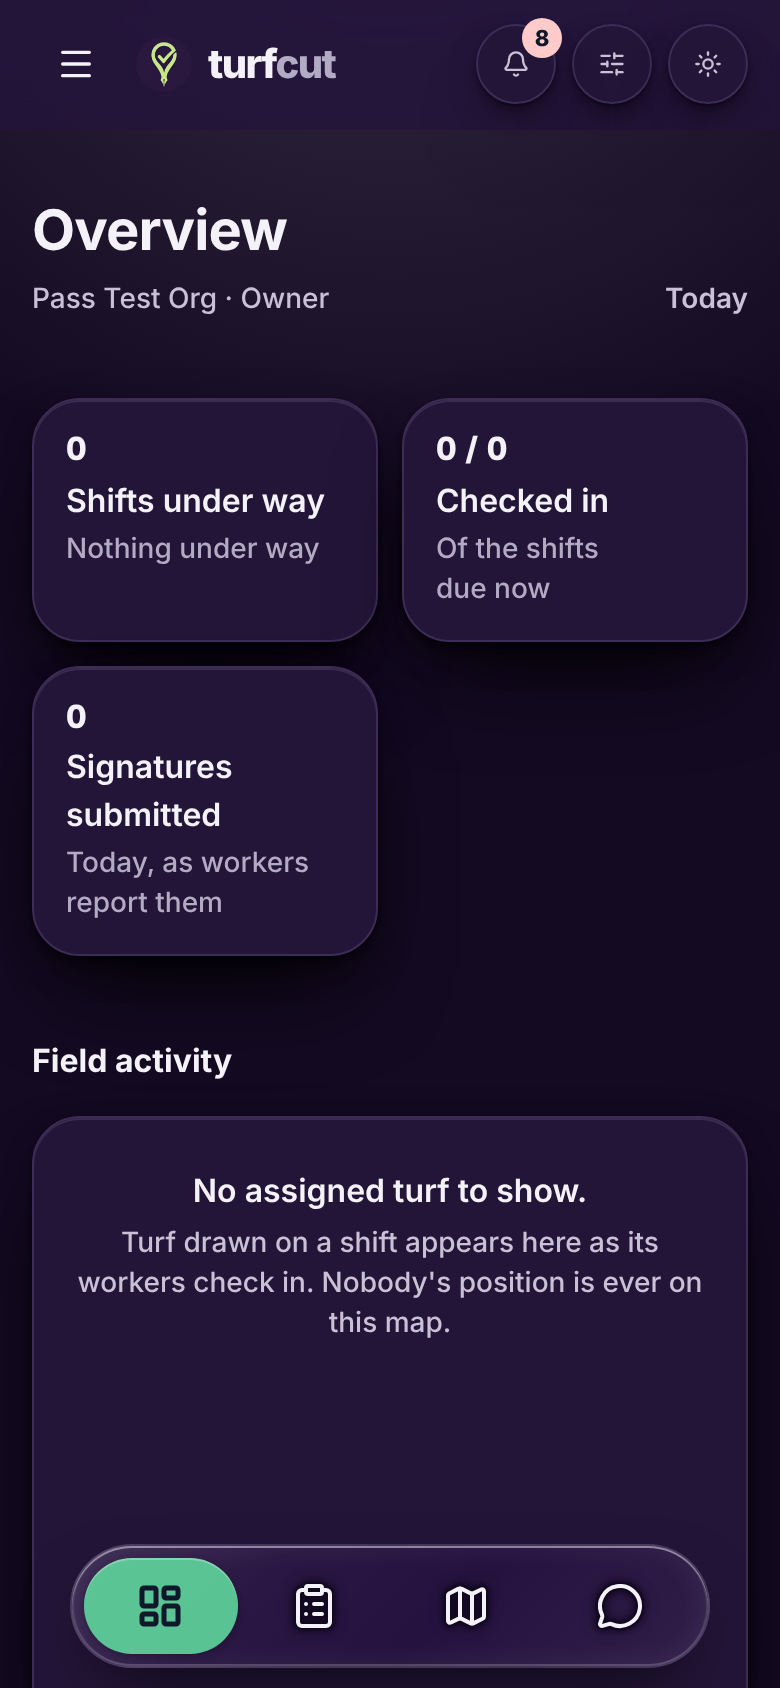
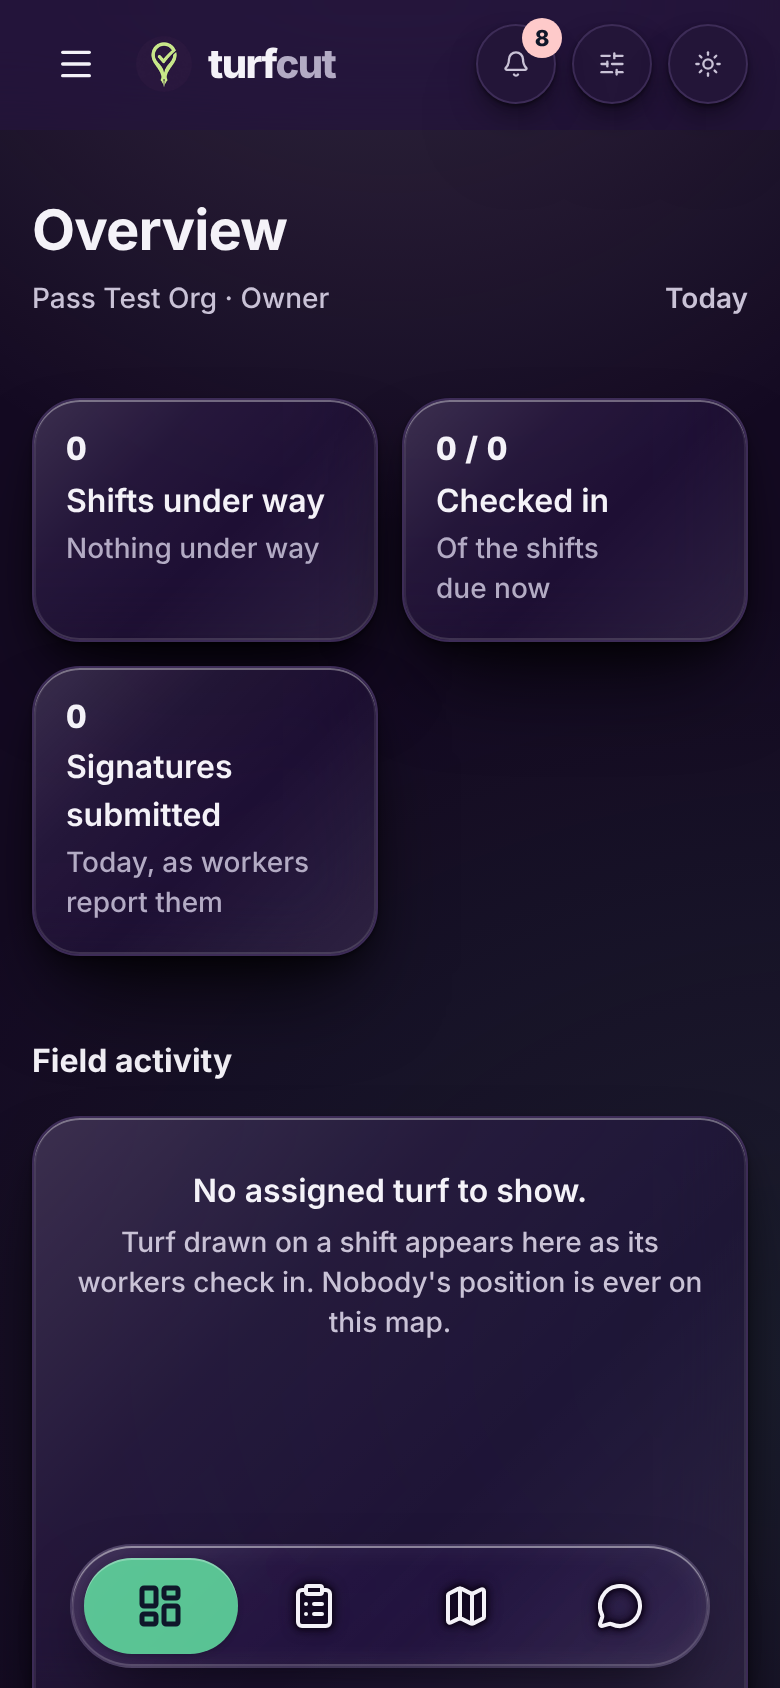
Cards are Liquid Glass, and pressed glass pools light under the finger
Every floating box is a thinner, blurred pane with the glint and bright
rim the controls have. While pressed, light pools on the pressed side
and the shadow pulls in. The page carries more of the brand's washes for
the glass to pick up. The faintest grey steps slightly darker on glass
so it stays AA; solid fallbacks are unchanged.

Claude-Session: https://claude.ai/code/session_01M5jonG7B326Ty4GJKyZ5gK

diff --git a/src/app/globals.css b/src/app/globals.css
@@ -103,6 +103,7 @@
      (derived; Subtle itself is 3.84:1 on Muted, so it stays on white and Cream). */
   --muted: #475569;
   --subtle: #64748b; /* = Subtle: captions and hints on white and Cream */
+  --subtle-on-glass: #55647a; /* derived: Subtle stepped 55% toward Muted, for the same captions on a glass card (AA over the tinted page) */
   --link: #1c0f2e; /* = Eggplant: 14:1 on every light surface (Forest is 4.3:1 on Muted) */
   --kicker: #475569;
   --focus: #157a46; /* = Forest */
@@ -161,6 +162,7 @@
   --fg: #f4f2f8;
   --muted: #c9c2d6;
   --subtle: #b3abc4;
+  --subtle-on-glass: #b3abc4;
   --solid: #5a4a78; /* a chosen chip or settled status by night: two steps up from the card (1.9:1), white type */
   --on-solid: #f4f2f8;
   --ink: #0f172a;
@@ -205,10 +207,17 @@
   --glass-border: rgb(255 255 255 / 0.2);
   --glass-highlight: inset 0 1px 0 rgb(255 255 255 / 0.34), inset 0 -1px 0 rgb(255 255 255 / 0.08), inset 0 0 0 1px rgb(255 255 255 / 0.06), 0 14px 36px -14px rgb(0 0 0 / 0.75);
   --glass-sheen: linear-gradient(135deg, rgb(255 255 255 / 0.08) 0%, rgb(255 255 255 / 0.02) 30%, rgb(255 255 255 / 0) 55%, rgb(255 255 255 / 0.05) 100%);
-  --card-bg: color-mix(in srgb, var(--surface) 82%, transparent);
-  --card-edge: inset 0 1px 0 rgb(255 255 255 / 0.1);
-  --card-sheen: linear-gradient(180deg, rgb(255 255 255 / 0.05), rgb(255 255 255 / 0) 38%);
-  --page-wash: radial-gradient(130% 34rem at 50% -8rem, color-mix(in srgb, var(--ring) 17%, transparent), transparent 72%);
+  --card-bg: color-mix(in srgb, var(--surface) 58%, transparent);
+  --card-filter: blur(20px) saturate(160%);
+  --card-edge: inset 0 1px 0 rgb(255 255 255 / 0.3), inset 0 -1px 0 rgb(255 255 255 / 0.07), inset 0 0 0 1px rgb(255 255 255 / 0.08);
+  --card-sheen: linear-gradient(135deg, rgb(255 255 255 / 0.13) 0%, rgb(255 255 255 / 0.03) 30%, rgb(255 255 255 / 0) 56%, rgb(255 255 255 / 0.07) 100%);
+  --card-glow: rgb(255 255 255 / 0.22);
+  --shadow-pressed: 0 1px 2px rgb(0 0 0 / 0.6), 0 6px 12px -6px rgb(0 0 0 / 0.7);
+  --page-wash:
+    radial-gradient(130% 34rem at 50% -8rem, color-mix(in srgb, var(--ring) 17%, transparent), transparent 72%),
+    radial-gradient(46rem 34rem at 108% 34%, color-mix(in srgb, var(--select) 10%, transparent), transparent 70%),
+    radial-gradient(44rem 34rem at -8% 66%, color-mix(in srgb, var(--ring-3) 20%, transparent), transparent 70%),
+    radial-gradient(48rem 30rem at 78% 102%, color-mix(in srgb, var(--ring) 14%, transparent), transparent 70%);
 }
 
 .sun {
@@ -226,6 +235,7 @@
   --fg: #000000;
   --muted: #1b1422;
   --subtle: #2b2433;
+  --subtle-on-glass: #2b2433;
   --link: #2a173e;
   --kicker: #2a173e;
   --focus: #2a173e;
@@ -281,8 +291,11 @@
   --glass-filter: none;
   --glass-sheen: none;
   --card-bg: var(--surface);
+  --card-filter: none;
   --card-edge: 0 0 0 0 transparent;
   --card-sheen: none;
+  --card-glow: transparent;
+  --shadow-pressed: 0 0 0 0 transparent;
   --dock-bg: var(--shell-bg);
   --dock-fg: var(--shell-muted);
   --dock-filter: none;
@@ -315,9 +328,17 @@ html {
   --glass-highlight: inset 0 1.5px 0 rgb(255 255 255 / 0.95), inset 0 -1px 0 rgb(255 255 255 / 0.4), inset 0 0 0 1px rgb(255 255 255 / 0.28), 0 12px 34px -14px rgb(28 15 46 / 0.36);
   --glass-filter: blur(24px) saturate(200%) contrast(1.05);
   --glass-sheen: linear-gradient(135deg, rgb(255 255 255 / 0.7) 0%, rgb(255 255 255 / 0.12) 30%, rgb(255 255 255 / 0) 55%, rgb(255 255 255 / 0.26) 100%);
-  --card-bg: color-mix(in srgb, var(--surface) 80%, transparent);
-  --card-edge: inset 0 1px 0 rgb(255 255 255 / 0.85);
-  --card-sheen: linear-gradient(180deg, rgb(255 255 255 / 0.5), rgb(255 255 255 / 0) 38%);
+  /* Cards are glass too (Caden, Nov 12): a thinner pane of the card colour over the page, blurred and a
+     little richer, with the diagonal glint and bright rim the controls have. The page behind is only ever
+     the cream and its washes, so the pane can be thin and its text still reads (design-tokens.test.ts
+     works it out); the faintest grey steps a little darker on it. */
+  --card-bg: color-mix(in srgb, var(--surface) 64%, transparent);
+  --card-filter: blur(20px) saturate(190%);
+  --card-edge: inset 0 1.5px 0 rgb(255 255 255 / 0.95), inset 0 -1px 0 rgb(255 255 255 / 0.45), inset 0 0 0 1px rgb(255 255 255 / 0.32);
+  --card-sheen: linear-gradient(135deg, rgb(255 255 255 / 0.62) 0%, rgb(255 255 255 / 0.12) 30%, rgb(255 255 255 / 0) 56%, rgb(255 255 255 / 0.22) 100%);
+  /* Pressed: light pools under the finger and the shadow pulls in, as the pane meets the page. */
+  --card-glow: rgb(255 255 255 / 0.9);
+  --shadow-pressed: 0 1px 2px rgb(28 15 46 / 0.1), 0 6px 12px -6px rgb(28 15 46 / 0.22);
   /* The dock is the clearest glass in the app (Caden's reference, Nov 10): a faint tint and a light
      blur, so the page shows through and bends at the rim. With so little pane behind them, the
      icons carry their own halo in the surface colour: that is what keeps them readable over
@@ -337,8 +358,14 @@ html {
   --dock-ring: var(--surface);
   /* The page's colour while the menu drawer is open: the drawer's pane over the page (see the rule at the end of the file). */
   --drawer-root: color-mix(in srgb, var(--surface) 79%, var(--bg));
-  /* A wash of the brand's sky at the top of every page, for the glass to pick up. */
-  --page-wash: radial-gradient(130% 34rem at 50% -8rem, color-mix(in srgb, var(--sky) 40%, transparent), transparent 72%);
+  /* Washes of the brand's sky and purple down the page, for the glass to pick up: without colour behind
+     it, a pane of glass on cream is just a white card. The same scheme, a little more of it, and no
+     stronger than the wash the top of the page already had: grey text sits straight on the page too. */
+  --page-wash:
+    radial-gradient(130% 34rem at 50% -8rem, color-mix(in srgb, var(--sky) 40%, transparent), transparent 72%),
+    radial-gradient(46rem 34rem at 108% 34%, color-mix(in srgb, var(--select) 6%, transparent), transparent 70%),
+    radial-gradient(44rem 34rem at -8% 66%, color-mix(in srgb, var(--sky) 38%, transparent), transparent 70%),
+    radial-gradient(48rem 30rem at 78% 102%, color-mix(in srgb, var(--select) 5%, transparent), transparent 70%);
   --hero-bg: var(--hero);
   /* Shape, rounder throughout (Caden's reference, Nov 10): xs 10 · sm 14 · md 24 · lg 28 · xl 32.
      Cards md, fields, thumbnails and job rows sm, tags and small tiles xs, the drawer and sheets lg.
@@ -2135,6 +2162,20 @@ body {
   :is(.work-card, .shift-card, .turf-card, .need-tile, .stat, .stat-tile, .summary-item, .choice-list, .option-card, .empty-state, .overview-map) {
     box-shadow: var(--card-edge), var(--shadow-depth);
   }
+  /* ...and every one of them is a pane of glass (Caden, Nov 12), like the cards, lists and tables. A box
+     inside another keeps its own solid fill: one blur per stack, and a clear chip on a frosted card.
+     The rows you swipe and the job rows stay solid, so a list of twenty does not mean twenty blurs. */
+  :is(.card, .list-card, .data-table-wrap, .work-card, .shift-card, .turf-card, .need-tile, .stat, .stat-tile, .summary-item, .choice-list, .option-card, .empty-state) {
+    background: var(--card-sheen), var(--card-bg);
+    -webkit-backdrop-filter: var(--card-filter);
+    backdrop-filter: var(--card-filter);
+    --subtle: var(--subtle-on-glass);
+  }
+  :is(.card, .card-flat, .list-card, .work-card, .hero-card, .sheet-panel, .more-sheet-panel) :is(.card, .list-card, .data-table-wrap, .work-card, .shift-card, .turf-card, .need-tile, .stat, .stat-tile, .summary-item, .choice-list, .option-card, .empty-state) {
+    background: var(--surface);
+    -webkit-backdrop-filter: none;
+    backdrop-filter: none;
+  }
   :is(.card, .card-flat, .list-card, .work-card, .hero-card, .sheet-panel, .more-sheet-panel) :is(.work-card, .shift-card, .turf-card, .need-tile, .stat, .stat-tile, .summary-item, .choice-list, .option-card, .empty-state, .overview-map) {
     box-shadow: none;
   }
@@ -2157,6 +2198,15 @@ body {
     html:not([data-motion="reduce"]) [data-tilt="on"] {
       transform: perspective(900px) rotateX(var(--tilt-x, 0deg)) rotateY(var(--tilt-y, 0deg)) scale(0.985);
       transition-duration: var(--dur-fast);
+    }
+    /* Pressed glass: light pools on the side under the finger (--tilt-lx / --tilt-ly run -1 to 1 across the
+       card) and the shadow pulls in, as the pane is pushed toward the page. Not the hero cards or a chosen
+       option, whose rings are drawn with the same property. */
+    html:not([data-motion="reduce"]) [data-tilt="on"]:not(.hero-card, .option-card) {
+      box-shadow:
+        inset calc(var(--tilt-lx, 0) * -18px) calc(var(--tilt-ly, 0) * -18px) 28px -14px var(--card-glow),
+        var(--card-edge),
+        var(--shadow-pressed);
     }
   }
   /* A form that keeps a reading width inside a wide workspace (#113 review, P4). */
@@ -3773,6 +3823,8 @@ summary.list-none::-webkit-details-marker {
     --glass-filter: none;
     --glass-sheen: none;
     --card-bg: var(--surface);
+    --card-filter: none;
+    --card-glow: transparent;
     --card-sheen: none;
     --page-wash: none;
   }

diff --git a/src/lib/design-tokens.test.ts b/src/lib/design-tokens.test.ts
@@ -176,6 +176,24 @@ describe.each([
       // On the drawer and sheets the faintest grey steps up to muted, as in the bars.
       expect(css).toMatch(/:is\(\.thread-top, \.composer, \.more-sheet-panel, \.sheet-panel\) \{\s*--subtle: var\(--muted\);/);
     }
+    // Cards are glass too (Caden, Nov 12). Unlike the controls they never float over content: behind a card is only the page
+    // and its washes. So the worst case is the strongest wash over the page colour, and text on the pane holds AA over that.
+    if (name !== "sunlight") {
+      const dark = name === "dark";
+      expect(dark ? themeBody(css, ".dark") : css).toMatch(dark ? /--card-bg: color-mix\(in srgb, var\(--surface\) 58%, transparent\);\s*--card-filter: blur\(20px\) saturate\(160%\);/ : /--card-bg: color-mix\(in srgb, var\(--surface\) 64%, transparent\);\s*--card-filter: blur\(20px\) saturate\(190%\);/);
+      const h = (c: RGB) => "#" + c.map((v) => Math.round(v).toString(16).padStart(2, "0")).join("");
+      // Every wash at once, though they sit apart on the page: by day the sky (40%) with the purple (6%), by night the pale ring (17%), the deeper one (20%) and the green (10%).
+      const page = dark ? mix(t.select, 0.1, h(mix(t["ring-3"], 0.2, h(mix(t.ring, 0.17, t.bg))))) : mix(t.select, 0.06, h(mix(t.sky, 0.4, t.bg)));
+      const card = mix(t.surface, dark ? 0.58 : 0.64, h(page));
+      expect(ratio(t.fg, card)).toBeGreaterThanOrEqual(7);
+      expect(ratio(t.muted, card)).toBeGreaterThanOrEqual(4.5);
+      // The faintest grey steps a little darker on the pane by day (Subtle itself is locked, and falls just under AA there).
+      expect(t["subtle-on-glass"]).toBe(dark ? t.subtle : "#55647a");
+      expect(ratio(t["subtle-on-glass"], card)).toBeGreaterThanOrEqual(4.5);
+      expect(css).toMatch(/\{\s*background: var\(--card-sheen\), var\(--card-bg\);\s*-webkit-backdrop-filter: var\(--card-filter\);\s*backdrop-filter: var\(--card-filter\);\s*--subtle: var\(--subtle-on-glass\);/);
+      // Links and status colours on the pane.
+      for (const k of ["link", "danger", "success", "warning"] as const) if (t[k]) expect(ratio(t[k], card)).toBeGreaterThanOrEqual(4.5);
+    }
     // Anyone who asks for less transparency or more contrast gets solid surfaces.
     expect(css).toMatch(/@media \(prefers-reduced-transparency: reduce\), \(prefers-contrast: more\), \(forced-colors: active\) \{\s*html,\s*\.dark \{\s*--glass-bg: var\(--surface\);/);
     expect(css).toMatch(/\.site-header \{[^}]*?background: var\(--header-bg\);/);
@@ -184,7 +202,7 @@ describe.each([
     if (name !== "sunlight") expect(ratio(t.muted, mix(t.surface, 0.8, name === "dark" ? "#ffffff" : "#000000"))).toBeGreaterThanOrEqual(4.5);
     // Sunlight and the solid fallback name every pane, and the header goes back to the page colour.
     for (const body of [themeBody(css, ".sun"), css.slice(css.indexOf("@media (prefers-reduced-transparency: reduce)"), css.indexOf("\n}\n", css.indexOf("@media (prefers-reduced-transparency: reduce)")))]) {
-      for (const k of ["glass-bg", "glass-bg-strong", "glass-bg-bar", "glass-filter", "glass-sheen", "card-bg", "card-sheen", "page-wash"]) expect(body).toMatch(new RegExp(`--${k}: (var\\(--surface\\)|none);`));
+      for (const k of ["glass-bg", "glass-bg-strong", "glass-bg-bar", "glass-filter", "glass-sheen", "card-bg", "card-sheen", "card-filter", "page-wash"]) expect(body).toMatch(new RegExp(`--${k}: (var\\(--surface\\)|none);`));
       expect(body).toMatch(/--header-bg: var\(--bg\);/);
     }
     // The other text-bearing bars use the denser pane too, by night as well, and their faintest grey steps up to muted.
@@ -468,7 +486,7 @@ describe("the ten locked colours (founder's twelve-screen concept, #111)", () =>
       for (const [, name, value] of body.matchAll(/--([\w-]+):\s*([^;]+);/g)) {
         if (/^#[0-9a-fA-F]{6}$/.test(value.trim())) expect(parsed[name]).toBe(value.trim());
         else if (name === "hero-border") expect(value.trim()).toBe("transparent");
-        else expect(name).toMatch(/^(shadow|shadow-depth|glass-(bg|bg-strong|bg-bar|border|highlight|filter|sheen)|card-(bg|edge|sheen)|dock-(bg|fg|border|ring|filter|sheen|highlight|halo|current-bg|current-fg)|drawer-root|header-bg|page-wash)$/); // the only non-colour tokens: shadows and the glass recipe
+        else expect(name).toMatch(/^(shadow|shadow-depth|shadow-pressed|glass-(bg|bg-strong|bg-bar|border|highlight|filter|sheen)|card-(bg|edge|sheen|filter|glow)|dock-(bg|fg|border|ring|filter|sheen|highlight|halo|current-bg|current-fg)|drawer-root|header-bg|page-wash)$/); // the only non-colour tokens: shadows and the glass recipe
       }
     }
   });

diff --git a/src/lib/press-tilt.test.ts b/src/lib/press-tilt.test.ts
@@ -7,18 +7,24 @@ const tile = { left: 100, top: 200, width: 150, height: 120 };
 
 describe("a pressed card dips toward the finger", () => {
   it("does not turn when pressed in the middle", () => {
-    expect(tiltFor(tile, 175, 260)).toEqual({ rx: 0, ry: 0 });
+    expect(tiltFor(tile, 175, 260)).toMatchObject({ rx: 0, ry: 0 });
   });
 
   it("weighs down the side that is pressed", () => {
     // rotateY(+) sends the right edge away from the viewer; rotateX(+) sends the top edge away.
-    expect(tiltFor(tile, 250, 260)).toEqual({ rx: 0, ry: TILT_MAX_DEG });
-    expect(tiltFor(tile, 100, 260)).toEqual({ rx: 0, ry: -TILT_MAX_DEG });
-    expect(tiltFor(tile, 175, 200)).toEqual({ rx: TILT_MAX_DEG, ry: 0 });
-    expect(tiltFor(tile, 175, 320)).toEqual({ rx: -TILT_MAX_DEG, ry: 0 });
+    expect(tiltFor(tile, 250, 260)).toMatchObject({ rx: 0, ry: TILT_MAX_DEG });
+    expect(tiltFor(tile, 100, 260)).toMatchObject({ rx: 0, ry: -TILT_MAX_DEG });
+    expect(tiltFor(tile, 175, 200)).toMatchObject({ rx: TILT_MAX_DEG, ry: 0 });
+    expect(tiltFor(tile, 175, 320)).toMatchObject({ rx: -TILT_MAX_DEG, ry: 0 });
     // A corner dips on both axes; halfway to an edge dips half as far.
-    expect(tiltFor(tile, 250, 320)).toEqual({ rx: -TILT_MAX_DEG, ry: TILT_MAX_DEG });
-    expect(tiltFor(tile, 212.5, 260)).toEqual({ rx: 0, ry: TILT_MAX_DEG / 2 });
+    expect(tiltFor(tile, 250, 320)).toMatchObject({ rx: -TILT_MAX_DEG, ry: TILT_MAX_DEG });
+    expect(tiltFor(tile, 212.5, 260)).toMatchObject({ rx: 0, ry: TILT_MAX_DEG / 2 });
+  });
+
+  it("says where across the card the press is, for the light that pools there", () => {
+    expect(tiltFor(tile, 250, 200)).toMatchObject({ lx: 1, ly: -1 });
+    expect(tiltFor(tile, 175, 260)).toMatchObject({ lx: 0, ly: 0 });
+    expect(tiltFor(tile, 137.5, 290)).toMatchObject({ lx: -0.5, ly: 0.5 });
   });
 
   it("turns a big card less than a small tile, and never less than a visible amount", () => {
@@ -30,8 +36,8 @@ describe("a pressed card dips toward the finger", () => {
   });
 
   it("treats a finger that slid off the card as its edge, and survives a box with no size", () => {
-    expect(tiltFor(tile, 900, -50)).toEqual({ rx: TILT_MAX_DEG, ry: TILT_MAX_DEG });
-    expect(tiltFor({ left: 0, top: 0, width: 0, height: 0 }, 10, 10)).toEqual({ rx: 0, ry: 0 });
+    expect(tiltFor(tile, 900, -50)).toMatchObject({ rx: TILT_MAX_DEG, ry: TILT_MAX_DEG });
+    expect(tiltFor({ left: 0, top: 0, width: 0, height: 0 }, 10, 10)).toMatchObject({ rx: 0, ry: 0 });
   });
 
   it("covers the boxes that float, and leaves alone what moves or scrolls by itself", () => {
@@ -54,6 +60,11 @@ describe("the dip in the stylesheet and the page", () => {
     expect(css).toMatch(/\[data-tilt="on"\] \{\s*transform: perspective\(900px\) rotateX\(var\(--tilt-x, 0deg\)\) rotateY\(var\(--tilt-y, 0deg\)\) scale\(0\.985\);/);
     // Only transform moves: the card's neighbours never shift.
     expect(css.slice(at, css.indexOf("}", at))).not.toMatch(/margin|width|height|top:|left:/);
+  });
+
+  it("pressed glass: light pools under the finger and the shadow pulls in; rings drawn with the same property are left alone", () => {
+    expect(css).toMatch(/\[data-tilt="on"\]:not\(\.hero-card, \.option-card\) \{\s*box-shadow:\s*inset calc\(var\(--tilt-lx, 0\) \* -18px\) calc\(var\(--tilt-ly, 0\) \* -18px\) 28px -14px var\(--card-glow\),\s*var\(--card-edge\),\s*var\(--shadow-pressed\);/);
+    for (const v of ["--tilt-lx", "--tilt-ly"]) expect(part).toContain(`"${v}"`);
   });
 
   it("does nothing when motion is reduced, never stops the tap, and is mounted once for the app", () => {

diff --git a/src/lib/press-tilt.ts b/src/lib/press-tilt.ts
@@ -37,13 +37,15 @@ export interface Box {
  * The pressed side goes down, away from the viewer: pressing the right edge turns the box about
  * its vertical axis by +max (rotateY), pressing the bottom edge turns it about its horizontal
  * axis by -max (rotateX). The centre does not turn it at all. A press outside the box counts as its edge.
+ * Also where the press is across the card (lx, ly), which the pressed glass uses to pool its light.
  */
-export function tiltFor(box: Box, x: number, y: number): { rx: number; ry: number } {
-  if (!(box.width > 0) || !(box.height > 0)) return { rx: 0, ry: 0 };
+export function tiltFor(box: Box, x: number, y: number): { rx: number; ry: number; lx: number; ly: number } {
+  if (!(box.width > 0) || !(box.height > 0)) return { rx: 0, ry: 0, lx: 0, ly: 0 };
   const max = Math.min(TILT_MAX_DEG, Math.max(TILT_MIN_DEG, TILT_REACH / Math.max(box.width, box.height)));
   const unit = (at: number, start: number, size: number) => Math.min(1, Math.max(-1, ((at - start) / size) * 2 - 1));
   const px = unit(x, box.left, box.width);
   const py = unit(y, box.top, box.height);
   const round = (n: number) => Math.round(n * 100) / 100 || 0;
-  return { rx: round(-py * max), ry: round(px * max) };
+  // lx / ly: where on the card the press is, -1 (left, top) to 1 (right, bottom), for the light that pools there.
+  return { rx: round(-py * max), ry: round(px * max), lx: round(px), ly: round(py) };
 }

diff --git a/src/components/PressTilt.tsx b/src/components/PressTilt.tsx
@@ -25,9 +25,11 @@ export function PressTilt() {
     };
     const lean = (e: PointerEvent) => {
       if (!card || !box) return;
-      const { rx, ry } = tiltFor(box, e.clientX, e.clientY);
+      const { rx, ry, lx, ly } = tiltFor(box, e.clientX, e.clientY);
       card.style.setProperty("--tilt-x", `${rx}deg`);
       card.style.setProperty("--tilt-y", `${ry}deg`);
+      card.style.setProperty("--tilt-lx", String(lx));
+      card.style.setProperty("--tilt-ly", String(ly));
     };
     const level = () => {
       const was = card;
@@ -37,8 +39,7 @@ export function PressTilt() {
       if (!was) return;
       // "off" while the card eases back, then the mark goes, so a card that was pressed once is like any other again.
       was.setAttribute("data-tilt", "off");
-      was.style.removeProperty("--tilt-x");
-      was.style.removeProperty("--tilt-y");
+      for (const v of ["--tilt-x", "--tilt-y", "--tilt-lx", "--tilt-ly"]) was.style.removeProperty(v);
       setTimeout(() => {
         if (was.getAttribute("data-tilt") === "off") was.removeAttribute("data-tilt");
       }, DURATION.base + 60);

diff --git a/docs/design/hero-board/evidence/card-depth-2026-11-12/README.md b/docs/design/hero-board/evidence/card-depth-2026-11-12/README.md
@@ -41,3 +41,15 @@ Caden: "wherever someone presses or taps it weighs that side of the card down", 
 `pressed-tile-right-light.png`: the first tile held at its right edge. `pressed-sign-in-top-dark.png`: the sign-in card held near its top.
 
 Checked in Chromium with a held mouse press (tile and sign-in card, light and dark), the angles set and cleared, reduced motion leaving the card still, and a tap on a card link still opening it. Not checked: a real finger on a real phone, where the feel of it is the whole point; and typing in a field while its card is tilted, which lasts only as long as the press.
+
+## Glass cards (same day)
+
+Caden: make all the cards Liquid Glass, so a card that is weighed down looks physically pressed and has the glass effect; change the colours slightly if that makes it more visible, but keep the same scheme.
+
+- **Every floating box is a pane of glass**: cards, lists, tables, tiles, work, shift and turf cards, choice lists, option cards and empty states. A thinner pane of the card colour (64% by day, 58% by night; it was 80% and 82%), the page blurred and a little richer behind it, the diagonal glint and bright rim the controls have.
+- **Pressed glass.** With the tilt, light pools on the side under the finger and the shadow pulls in, as the pane is pushed toward the page.
+- **The page has more for the glass to pick up**: soft washes of the brand's lavender, purple and (by night) green down the page, where there was one at the top. No new colour, and by day no stronger than the wash the top already had, because grey text sits straight on the page too.
+- **Text.** Behind a card there is only ever the page and its washes, so the test works out the worst of those: body text holds 7:1, secondary text and status colours AA. The faintest grey (Subtle, a locked colour) fell just under AA on the thinner pane by day, so on glass it steps a little toward Muted (`--subtle-on-glass`, #55647A). Subtle itself is unchanged.
+- **Solid on purpose:** a box inside another box (one blur per stack), the job cards you swipe and the job rows (a list of twenty is not twenty blurs), the hero cards (their own colour), Sunlight, and anyone who asks their device for less transparency or more contrast.
+
+Honest limits: by night the glass is plain to see. By day it is quiet: a white pane over a pale cream page has little to show through, and making the page darker would cost text contrast. Blur is the costliest thing a phone browser draws; pages with many tiles want a look on a real phone for smoothness, and Safari is known to clip or drop blur in some stacking cases, which Chromium does not show.
